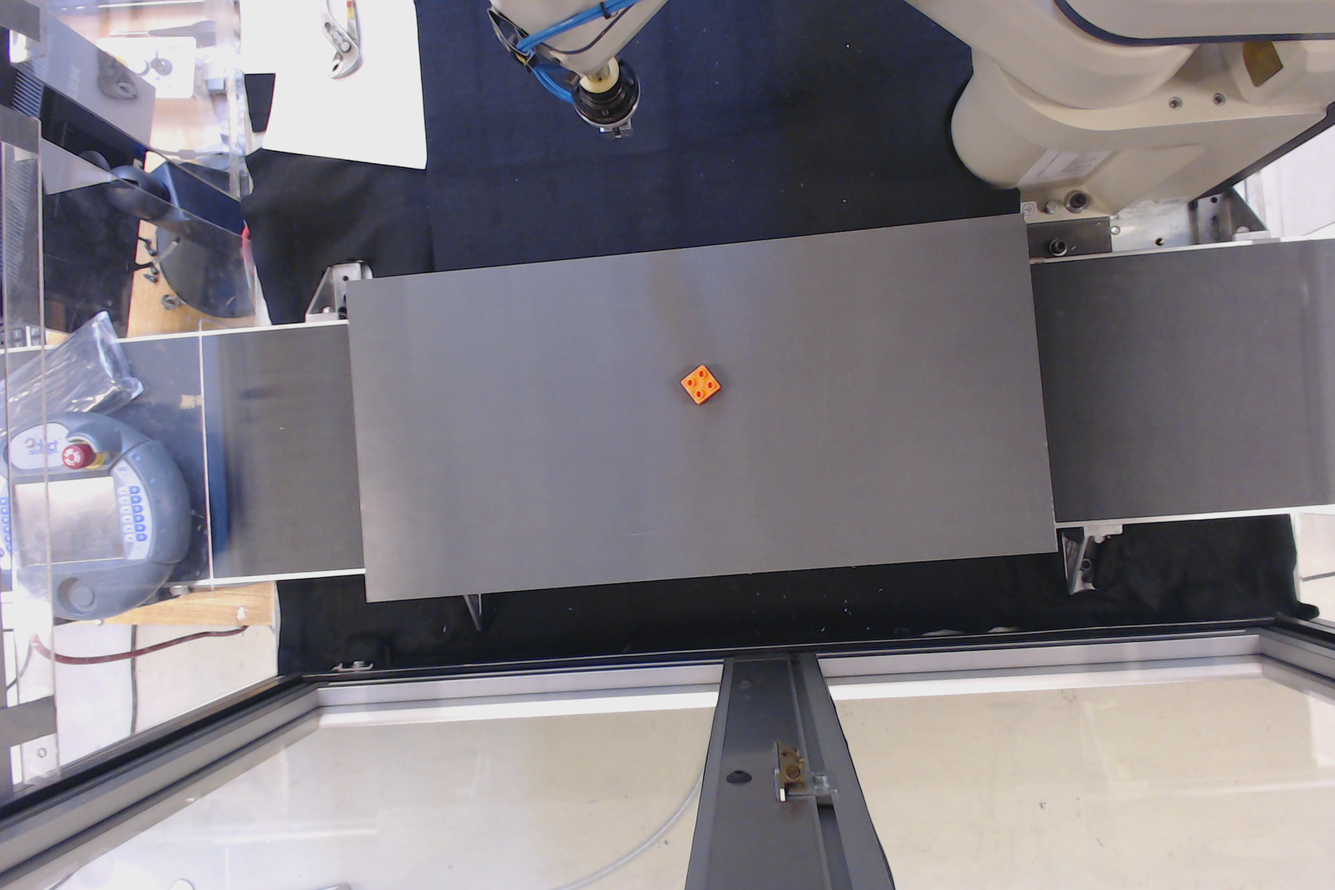
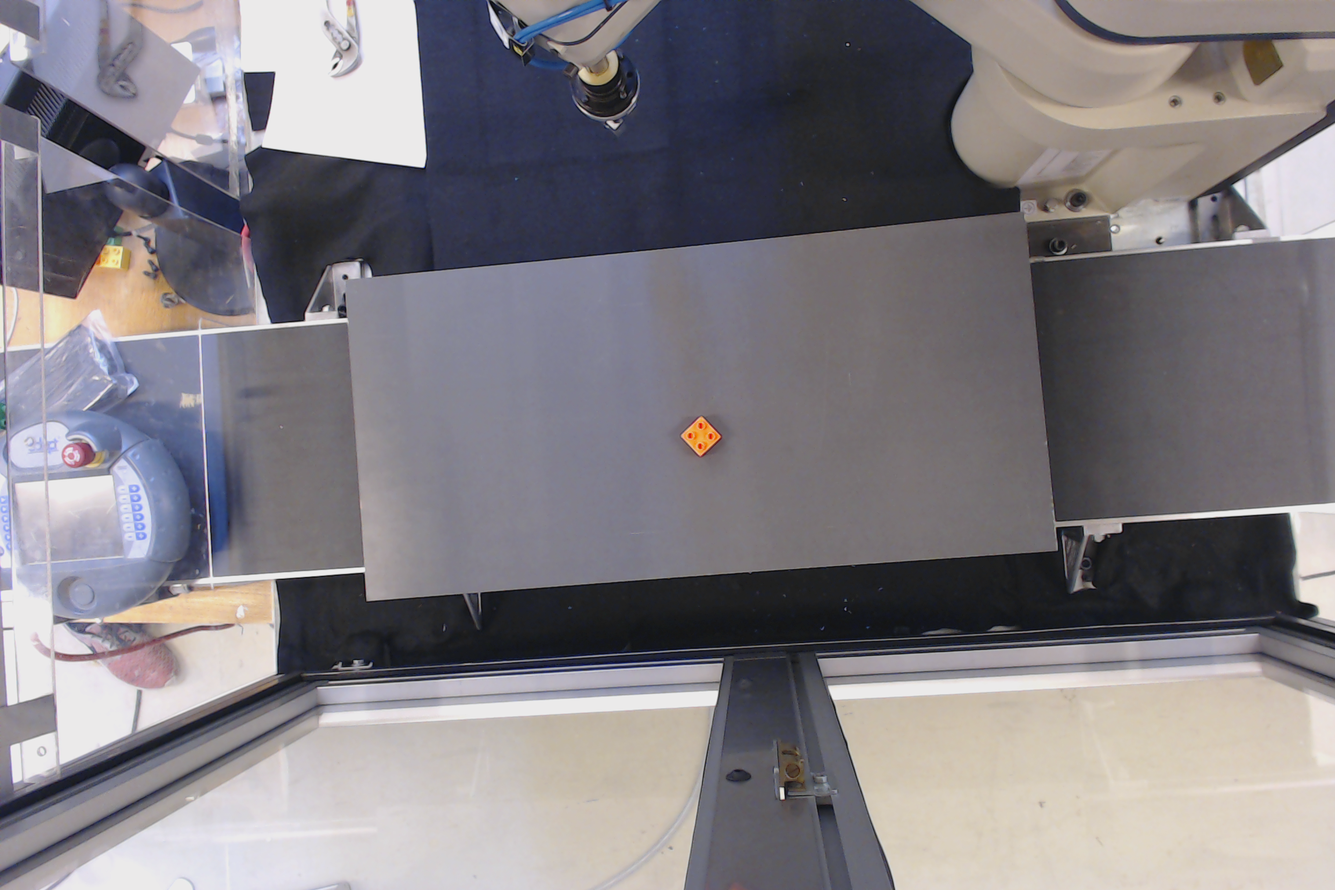
last changes 4 april

diff --git a/src/matlab/coordTranslation.m b/src/matlab/coordTranslation.m
@@ -16,7 +16,8 @@
 % 
 %**************************************************************************
 
-% clear all; close all; clc;
+clearvars -except r cam
+close all; clc;
 
 %% MAIN
 % global connection
@@ -29,24 +30,32 @@
 % end
 
 % Load intrinsics and image
+fprintf('Loading intrinsic and extrinsic parameters...\n');
 load Calib_Results.mat;
 load extrinsic.mat
-img = rgb2gray(imread('fig/Alvaro_pussy.jpg'));
+img = rgb2gray(imread('fig/chessboard.jpg'));
 % cd ('fig/');
 % extrinsic_computation;
 % cd('..');
 
+fprintf('Creating projective matrix...\n');
 % Extrinsic and Intrinsic Matrices are used to change the coordinate
 % systems
 extrinsic = [Rc_ext Tc_ext];
 intrinsic = KK;
 
+% WORLD FRAME
 % Projective Matrix
 Proj = intrinsic*extrinsic;
-
 % We can ignore the third column because the Z coordinate is always zero.
 % So we will have a 3x3 matrix and we will be able to inverse it.
 Proj(:,3)=[];
+
+% ROBOT FRAME
+theta_r = deg2rad(270);
+Trans_mat = [cos(theta_r)    -sin(theta_r)    0    234.658   
+             sin(theta_r)    cos(theta_r)    0    400.303
+             0              0             1         0        ];
 
 % Calculations using the origin to get the w (last value of the matrix
 % Values)
@@ -69,11 +78,19 @@ img_aux = Proj*[29*3; 29*5; 1];
 w_aux = img_aux(3);
 img_aux = img_aux/img_aux(3);
 
+%% Getting picture
+
+fprintf('Taking picture of the current workspace...\n');
+imwrite(snapshot(cam(1)),'fig/blocks1.png');
+block_recognition;
+
 % Values that we will use; they will be some input provided by some
 % functions which will calculate the correct position of the block on the 
 % image. NOW ONLY TEST VALUES
-img_coordx = 1213.9;
-img_coordy = 663.3;
+img_coordx = pxy(1);
+img_coordy = pxy(2);
+% img_coordx = img_og(1);
+% img_coordy = img_og(2);
 img_coord = [img_coordx; img_coordy; 1];
 
 % The invertion of the P matrix will be made in order to find the 
@@ -81,16 +98,11 @@ img_coord = [img_coordx; img_coordy; 1];
 % correct because we need to normalize it using the third value of the same
 % matrix. We need to divide by 100 to get the values with correct units
 % (cm).
-w_coord = Proj\(925*img_coord);
+w_coord = Proj\(w_og*img_coord);
 w_coordx = w_coord(1)/(w_coord(3));
 w_coordy = w_coord(2)/(w_coord(3));
 w_coord = [w_coordx; w_coordy; 1];
 
-% ROBOT FRAME
-theta = deg2rad(270);
-Trans_mat = [cos(theta)    -sin(theta)    0    234.658   
-             sin(theta)    cos(theta)    0    400.303
-             0              0             1    0        ];
 r_coord = [Trans_mat; 0 0 0 1]*[w_coord; 1];
 
 %% IMAGE 
@@ -109,6 +121,7 @@ r_coord = [Trans_mat; 0 0 0 1]*[w_coord; 1];
 
 % Print Coordinates
 fprintf('Image Coordinates: X: %.4f Y: %.4f\n',img_coord(1),img_coord(2));
+fprintf('Rotation angle: %.4f degrees\n',rot_angle);
 fprintf('World Coordinates: X: %.4f Y: %.4f\n', w_coord(1),w_coord(2));
 fprintf('Robot Coordinates: X: %.4f Y: %.4f\n', r_coord(1),r_coord(2));
 
@@ -116,20 +129,23 @@ fprintf('Robot Coordinates: X: %.4f Y: %.4f\n', r_coord(1),r_coord(2));
 % GRIPPING
 % Z = 204
 % r = -45
-% 58.875
+
+fprintf('Starting motion of the robot...\n');
 
 r.closeGrapper
 pause(2);
-r.moveLinear(r_coord(1),r_coord(2),250,0,180,-6.66,20)
+r.moveLinear(r_coord(1),r_coord(2),250,0,180,rot_angle,20)
 pause(2);
-r.moveLinear(r_coord(1),r_coord(2),215,0,180,-6.66,10)
+r.moveLinear(r_coord(1),r_coord(2),215,0,180,rot_angle,10)
 pause(2);
 r.openGrapper
 pause(2);
-r.moveLinear(r_coord(1),r_coord(2),250,0,180,-6.66,10)
+r.moveLinear(r_coord(1),r_coord(2),250,0,180,rot_angle,10)
 pause(2);
 
 %Move robot to center (NOT ORIGEN)
-r.moveLinear(425,0,300,0,180,-45,20)
+r.moveLinear(425,0,300,0,180,0,20)
 pause(2);
+
+fprintf('Program finished!\n');
 

diff --git a/src/matlab/block_recognition.m b/src/matlab/block_recognition.m
@@ -15,7 +15,7 @@
 %
 % 
 %**************************************************************************
-clear all; close all; clc;
+% clear all; close all; clc;
 
 %% Camera connection (Should be done once in the main.m)
 % webcamlist           % shows available cameras on pc
@@ -26,9 +26,11 @@ clear all; close all; clc;
 % image(I)             % show image
 % imtool(I)            % read RGB colors from an image to do thresholding
 
+
+
 %% Background substration with output image in RGB
 img = imread('fig/blocks1.png');
-bkg = imread('background.png');
+bkg = imread('fig/background.png');
 imgG = rgb2gray(img);
 bkgG = rgb2gray(bkg);
 imgF = medfilt2(imgG,[5 5]);
@@ -56,6 +58,7 @@ Bl = [0     50    0     50    0     50  ];   % black
 %% Color Detection - thresholding
 Ib = zeros(size(I,1),size(I,2));   % initialize a black image
 C = O;          % this will be function input !!!
+fprintf('Calculating image coordinates of the block...\n');
 % Ib is the image only with the desired block
 for i=1:size(I,1)
     for j=1:size(I,2)
@@ -81,15 +84,15 @@ for i=1:size(Ib,1)
         end
     end
 end
-figure
-subplot(1,2,1);imshow(I);title('RGB image with background substracted');
-subplot(1,2,2);imshow(Ib);title('Image with desired block');
-
+% figure
+% subplot(1,2,1);imshow(I);title('RGB image with background substracted');
+% subplot(1,2,2);imshow(Ib);title('Image with desired block');
+% 
 %% Edge detection using Canny method
 Ie = edge(Ib,'Canny',[],7); % image with edges
-figure
-subplot(1,2,1);imshow(Ib);title('Detected color block');
-subplot(1,2,2);imshow(Ie);title('Blocks with edges');
+% figure
+% subplot(1,2,1);imshow(Ib);title('Detected color block');
+% subplot(1,2,2);imshow(Ie);title('Blocks with edges');
 
 %% Find block center and area in the image (pixels)
 Im = imfill(Ie,'holes');    % fill the image with edges
@@ -97,7 +100,7 @@ BW = bwlabel(Im,8);         % region labeling
 infoB = regionprops(BW,'centroid','area');  % structure with block info
 block = [cat(1, infoB.Area) cat(1, infoB.Centroid)]; 
 [A, k] = max(block(:,1));   % find max area in the image   
-pxy = block(k,2:3)          % relate the area to the center pixel values 
+pxy = block(k,2:3);          % relate the area to the center pixel values 
 
 row = 1;
 Islope = double(Im);
@@ -115,12 +118,23 @@ for i=2:size(BW,1)-1
         end
     end
 end
+% 
+% figure
+% imshow(Islope)
 
-figure
-imshow(Islope)
+%
+image1 = zeros(3,size(pslope,1));
+r_coord1 = zeros(4,size(pslope,1));
 
-p = polyfit(pslope(:,1),pslope(:,2),1);  % slope a and b
-theta = acot(-p(1))*180/pi               % [deg] desired orientation angle
+for i=1:length(pslope) 
+    image1(:,i) = Proj\(w_og*[pslope(i,:)'; 1]); 
+    r_coord1(:,i) = [Trans_mat; 0 0 0 1]*[image1(:,i); 1]; 
+end
+%
+
+p = polyfit(r_coord1(1,:),r_coord1(2,:),1);  % slope a and b
+theta = rad2deg(atan(-p(1)));               % [deg] desired orientation angle
+rot_angle = 45 - theta;
 
 
 

diff --git a/src/matlab/connect_cobra.m b/src/matlab/connect_cobra.m
@@ -30,5 +30,7 @@ close all; clear all; clc;
 
 %% Conection between robot and computer  
 % Creates the conector object
-RobotConnector;
+% RobotConnector;
 r = RobotConnector;
+% Camera
+cam = webcam(1);
